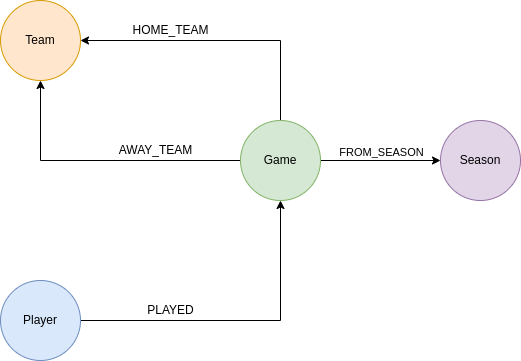
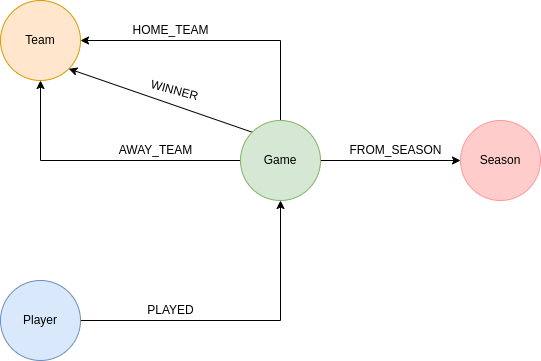
update python scripts

diff --git a/create_home_away.py b/create_home_away.py
@@ -55,23 +55,9 @@ with graphDB_Driver.session() as graphDB_Session:
         home_team_query  = 'MERGE (g: Game {id: \'' + game_id +'\'}) MERGE (h: Team {id: \''+ home_team +'\'}) MERGE (g)-[r:HOME_TEAM {PTS: '+ home_pts +', FG_PCT: '+ home_fg_pct +', FT_PCT: '+home_ft_pct+', AST: '+home_ast+', REB: '+home_reb+' }]->(h)'
         # cypher query to create the relationship "AWAY_TEAM" that matches the away team stats of each game
         away_team_query  = 'MERGE (g: Game {id: \'' + game_id +'\'}) MERGE (a: Team {id: \''+ away_team +'\'}) MERGE (g)-[o:AWAY_TEAM {PTS: '+ away_pts +', FG_PCT: '+ away_fg_pct +', FT_PCT: '+away_ft_pct+', AST: '+away_ast+', REB: '+away_reb+' }]->(a)'
+        # cypher query to create the relationship "WINNER" that matches the team winner of each game
+        winner_team_query = 'MERGE (g: Game {id: \'' + game_id +'\'}) MERGE (t: Team {id: \''+ winner_team +'\'}) MERGE (g)-[w:WINNER]-(t)'
         # Query the graph    
         graphDB_Session.run(home_team_query)
         graphDB_Session.run(away_team_query)
-
-        
-
-    
-
-    
-
-
-
-
-
-
-
-
-#    print(wanted_df_slice.GAME_ID.values[0])
-#     region_value = 'NA' if isnull(wanted_df_slice.region.values[0]) else wanted_df_slice.region.values[0]
-#     cursor.execute("INSERT INTO dbo.NOC_Region (NOC,region) VALUES (?,?)",wanted_df_slice.NOC.values[0], region_value)
+        graphDB_Session.run(winner_team_query)

diff --git a/create_played.py b/create_played.py
@@ -59,18 +59,3 @@ with graphDB_Driver.session() as graphDB_Session:
         
         # Query the graph    
         nodes = graphDB_Session.run(cqlNodeQuery)
-
-    
-
-    
-
-
-
-
-
-
-
-
-#    print(wanted_df_slice.GAME_ID.values[0])
-#     region_value = 'NA' if isnull(wanted_df_slice.region.values[0]) else wanted_df_slice.region.values[0]
-#     cursor.execute("INSERT INTO dbo.NOC_Region (NOC,region) VALUES (?,?)",wanted_df_slice.NOC.values[0], region_value)
